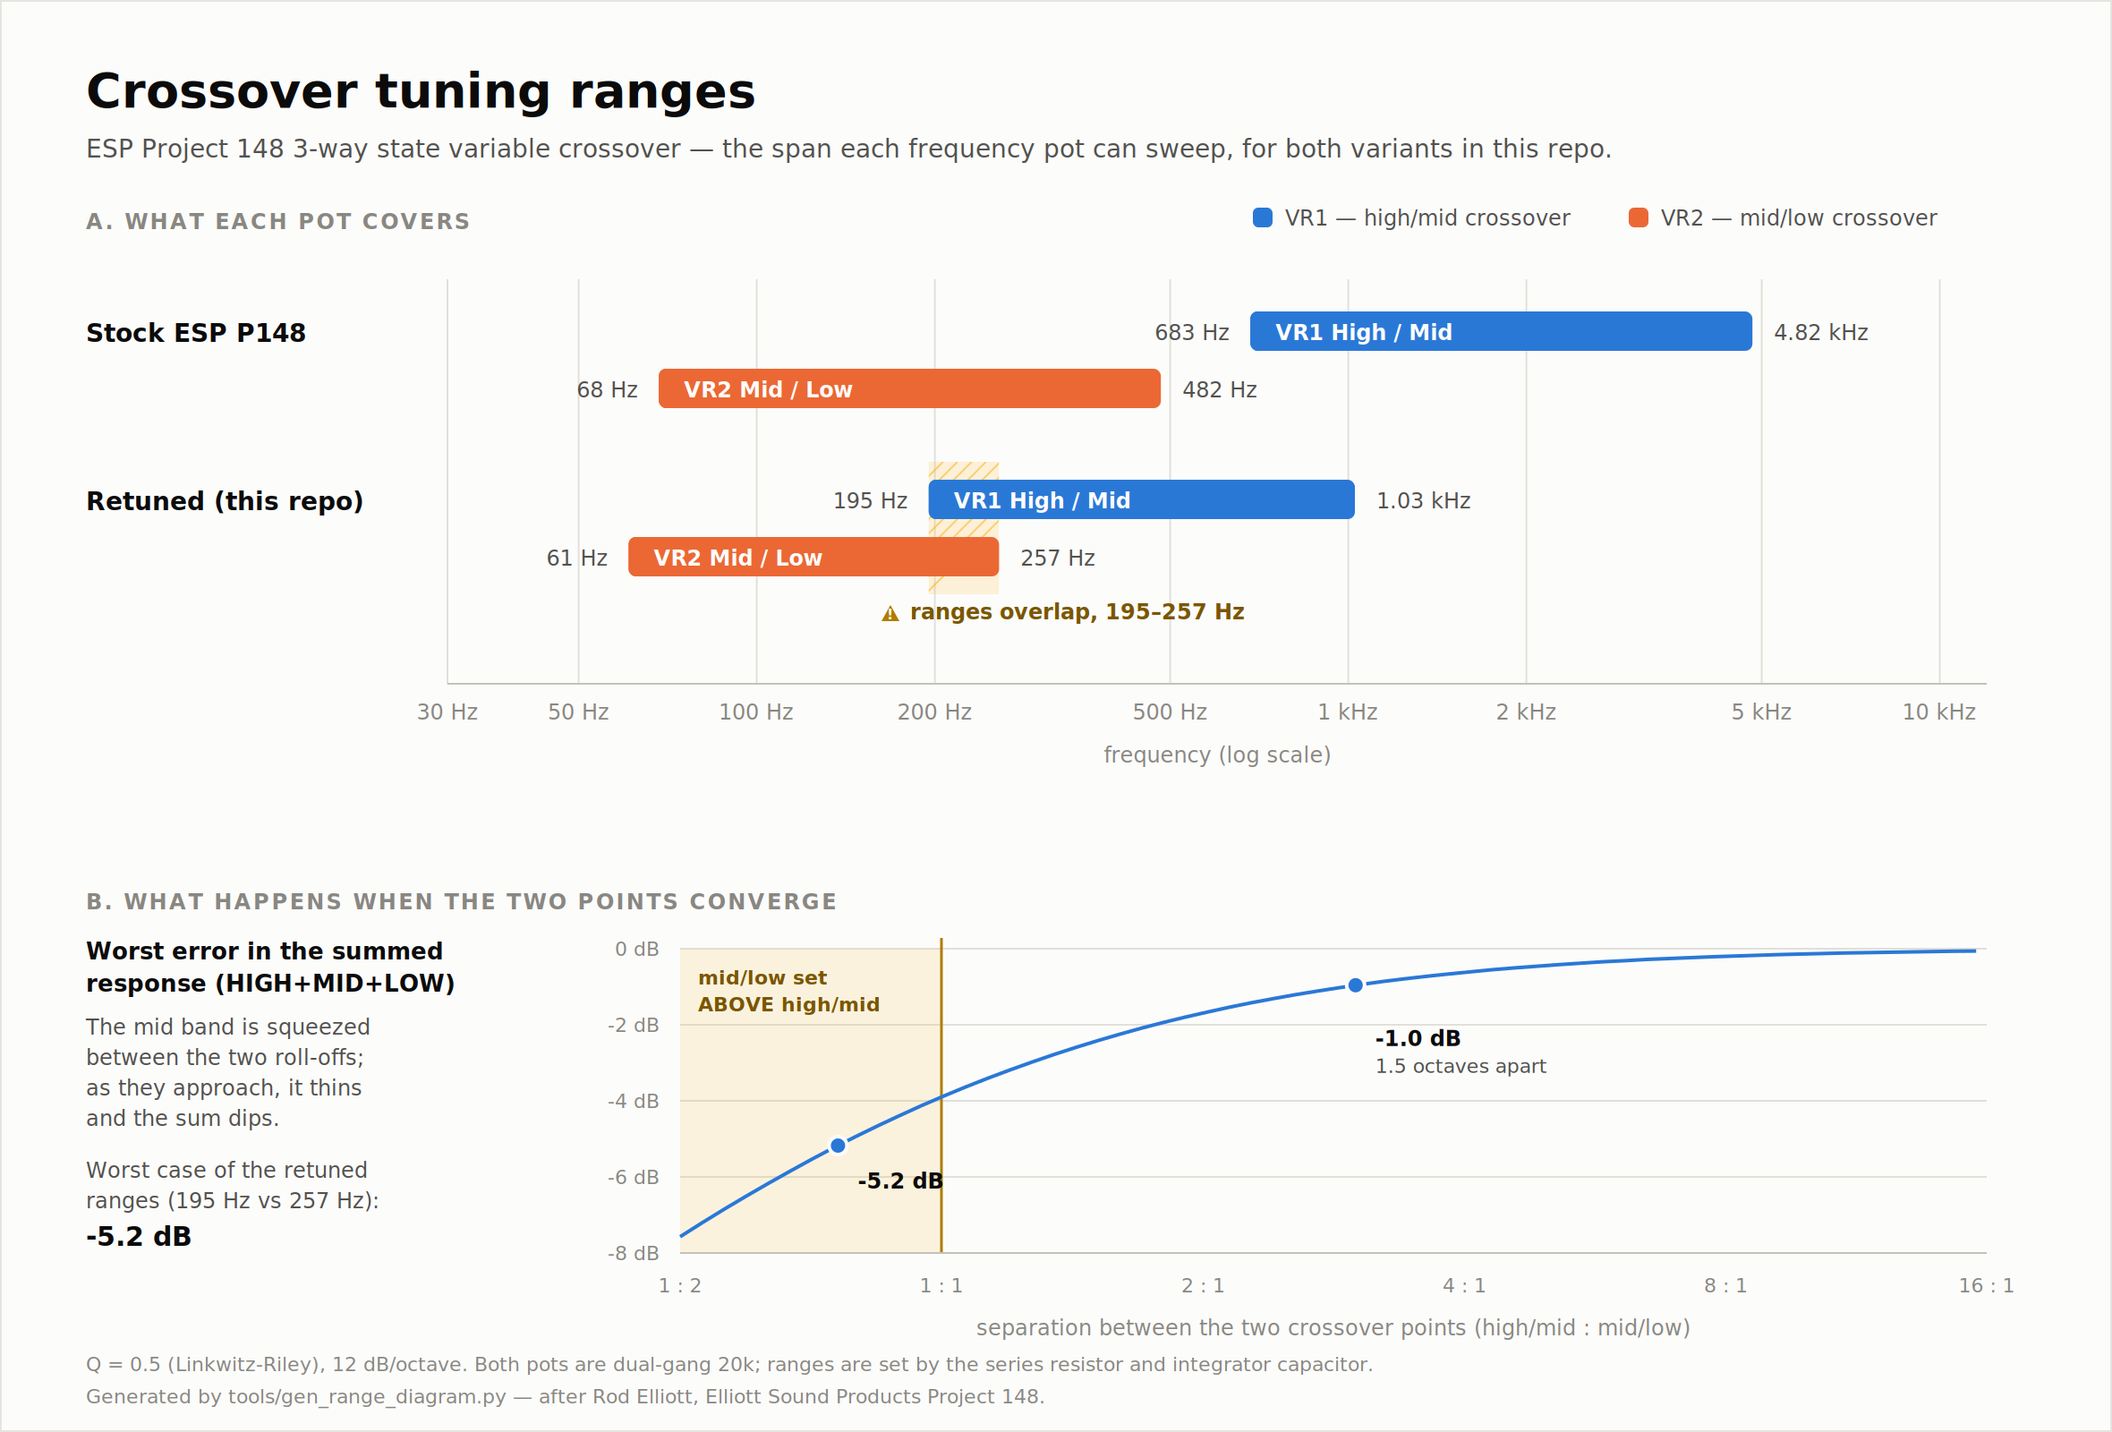
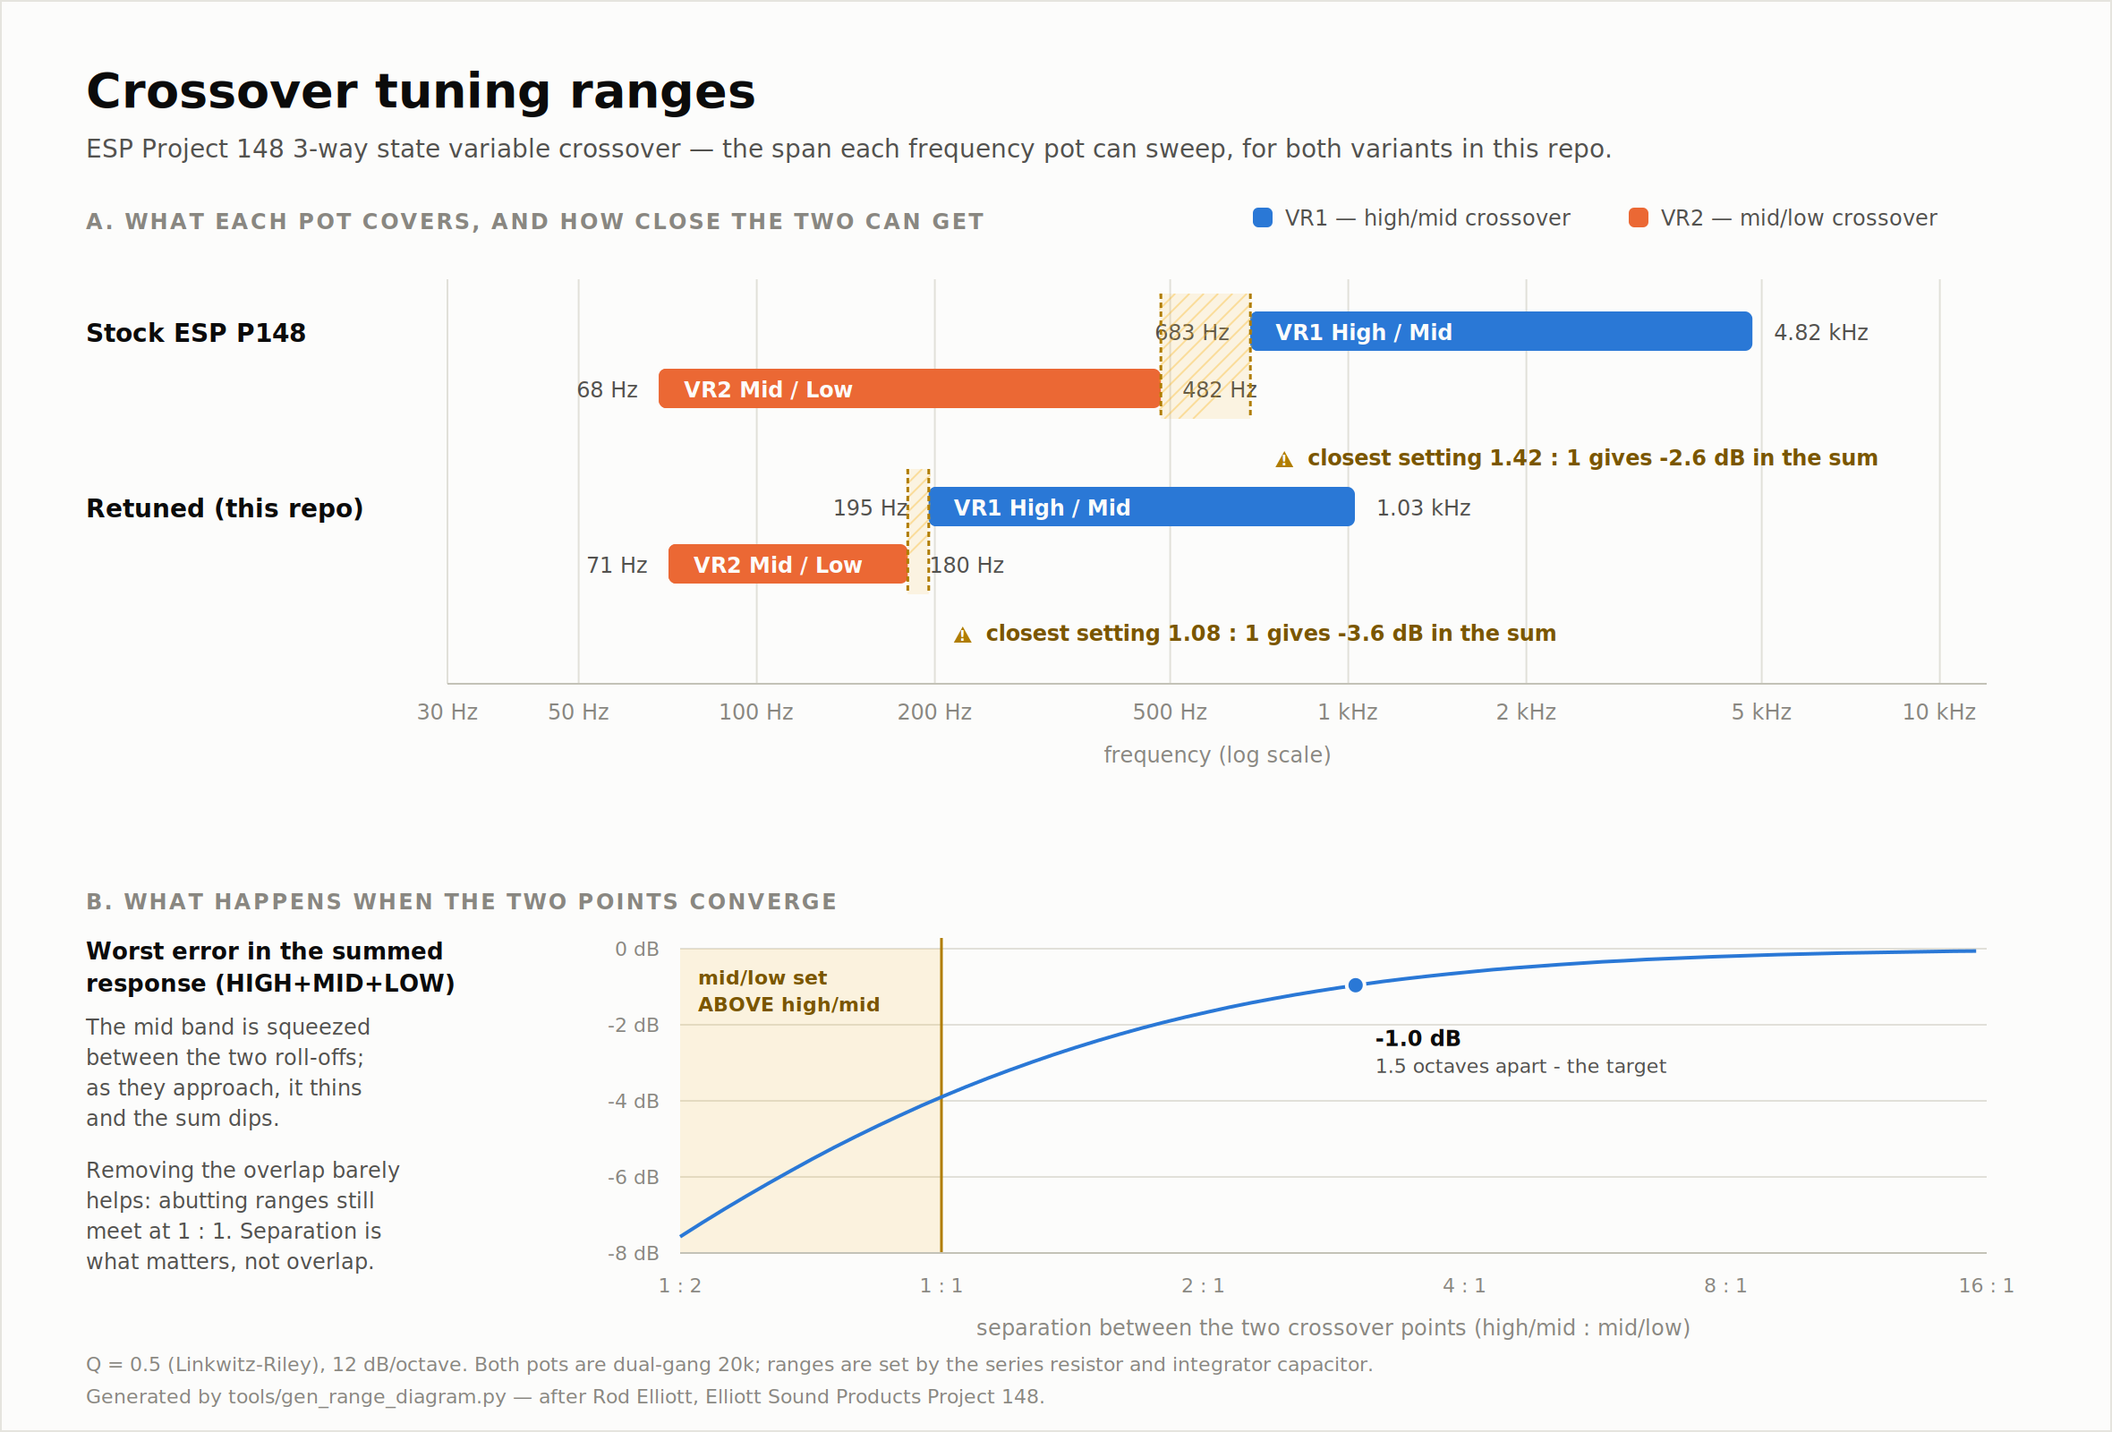
Retune filter 2 to 71-180 Hz; reframe the guidance around separation
Filter 2 becomes R17/R18 = 13k with C3/C4 = 68nF, giving 70.9 - 180.0 Hz, so
the two tuning ranges no longer overlap (filter 1 starts at 195 Hz).  Filter 1
is unchanged at 4.7k / 33nF.

Removing the overlap is worth doing but does not do what it appears to.  Ranges
that merely abut still meet at the boundary, so the worst-case setting only
improves from 0.76:1 (-5.17 dB) to 1.08:1 (-3.57 dB).  The stock ESP values have
the same exposure at 1.42:1 (-2.62 dB) - nothing in this topology enforces
separation, because the two filters are tuned independently.  The docs and the
range diagram now say so directly: the diagram marks each variant's closest
possible setting and the error it produces, rather than only flagging overlap.

Claude-Session: https://claude.ai/code/session_01NEgWi6wEgHQCC2hjcx9DP1

diff --git a/tools/gen_range_diagram.py b/tools/gen_range_diagram.py
@@ -30,9 +30,9 @@ W, H = 1180, 800
 
 VARIANTS = [
     ("Stock  ESP P148", [("VR1", "High / Mid", 683.0, 4820.0, S1),
-                         ("VR2", "Mid / Low", 68.3, 482.0, S2)], None),
+                         ("VR2", "Mid / Low", 68.3, 482.0, S2)]),
     ("Retuned  (this repo)", [("VR1", "High / Mid", 195.3, 1026.0, S1),
-                              ("VR2", "Mid / Low", 60.7, 256.7, S2)], (195.3, 256.7)),
+                              ("VR2", "Mid / Low", 70.9, 180.0, S2)]),
 ]
 
 FMIN, FMAX = 30.0, 12000.0
@@ -62,6 +62,16 @@ def outputs(f, f1, f2):
 
 def db(x):
     return 20 * math.log10(abs(x)) if abs(x) > 1e-12 else -99.0
+
+
+def worst_sum_error_pair(f1, f2):
+    worst = 0.0
+    for i in range(900):
+        f = 10 * 10 ** (3.5 * i / 899)
+        e = db(sum(outputs(f, f1, f2)))
+        if abs(e) > abs(worst):
+            worst = e
+    return worst
 
 
 def worst_sum_error(ratio, f2=200.0):
@@ -102,7 +112,7 @@ text(48, 88, "ESP Project 148 3-way state variable crossover — the span each "
 
 # ---------------- panel A -------------------------------------------------
 AY = 150
-text(48, AY - 22, "A.  WHAT EACH POT COVERS", size=12, fill=MUTED,
+text(48, AY - 22, "A.  WHAT EACH POT COVERS, AND HOW CLOSE THE TWO CAN GET", size=12, fill=MUTED,
      weight="bold", spacing="1.2")
 
 # axis gridlines
@@ -128,21 +138,9 @@ for i, (lab, colour) in enumerate([("VR1 — high/mid crossover", S1),
 
 BAR = 26
 row_y = AY + 24
-for vname, bars, overlap in VARIANTS:
+for vi, (vname, bars) in enumerate(VARIANTS):
     grp_top = row_y - 6
-    if overlap:
-        ox0, ox1 = fx(overlap[0]), fx(overlap[1])
-        oh = 2 * BAR + 22
-        add('<clipPath id="ovl"><rect x="%.1f" y="%.1f" width="%.1f" '
-            'height="%.1f"/></clipPath>' % (ox0, grp_top - 4, ox1 - ox0, oh))
-        add('<g clip-path="url(#ovl)">')
-        add('<rect x="%.1f" y="%.1f" width="%.1f" height="%.1f" fill="%s" '
-            'fill-opacity="0.16"/>' % (ox0, grp_top - 4, ox1 - ox0, oh, WARN))
-        for dx in range(0, int(ox1 - ox0) + 40, 8):     # texture, not colour alone
-            add('<line x1="%.1f" y1="%.1f" x2="%.1f" y2="%.1f" stroke="%s" '
-                'stroke-width="1" stroke-opacity="0.55"/>'
-                % (ox0 + dx, grp_top - 4, ox0 + dx - oh, grp_top - 4 + oh, WARN))
-        add('</g>')
+    f1_min, f2_max = bars[0][2], bars[1][3]
     text(48, row_y + 17, vname, size=14, fill=INK, weight="bold")
     for label, band, f_lo, f_hi, colour in bars:
         x0, x1 = fx(f_lo), fx(f_hi)
@@ -157,17 +155,37 @@ for vname, bars, overlap in VARIANTS:
         text(x0 - 12, row_y + 16, hz(f_lo), size=12, fill=INK2, anchor="end")
         text(x1 + 12, row_y + 16, hz(f_hi), size=12, fill=INK2)
         row_y += BAR + 6
-    if overlap:
-        cx = (fx(overlap[0]) + fx(overlap[1])) / 2
-        ty = grp_top + 2 * BAR + 32
-        add('<path d="M %.1f %.1f L %.1f %.1f L %.1f %.1f Z" fill="%s"/>'
-            % (cx - 46, ty + 1, cx - 36, ty + 1, cx - 41, ty - 8, "#b07d00"))
-        text(cx - 41, ty, "!", size=8, fill=SURFACE, anchor="middle",
-             weight="bold")
-        text(cx - 30, ty, "ranges overlap, %s–%s"
-             % (hz(overlap[0]).split()[0], hz(overlap[1])), size=12,
-             fill="#7a5600", weight="bold")
-    row_y += 30
+
+    # the closest the two crossover points can be set: VR1 min vs VR2 max
+    lo, hi = min(f1_min, f2_max), max(f1_min, f2_max)
+    xa, xb = fx(lo), fx(hi)
+    oh = 2 * BAR + 18
+    add('<clipPath id="ovl%d"><rect x="%.1f" y="%.1f" width="%.1f" '
+        'height="%.1f"/></clipPath>' % (vi, xa - 1, grp_top - 4,
+                                        max(xb - xa, 3) + 2, oh))
+    add('<g clip-path="url(#ovl%d)">' % vi)
+    add('<rect x="%.1f" y="%.1f" width="%.1f" height="%.1f" fill="%s" '
+        'fill-opacity="0.11"/>' % (xa, grp_top - 4, max(xb - xa, 3), oh, WARN))
+    for dx in range(0, int(xb - xa) + 40, 8):
+        add('<line x1="%.1f" y1="%.1f" x2="%.1f" y2="%.1f" stroke="%s" '
+            'stroke-width="1" stroke-opacity="0.35"/>'
+            % (xa + dx, grp_top - 4, xa + dx - oh, grp_top - 4 + oh, WARN))
+    add('</g>')
+    for x in (xa, xb):
+        add('<line x1="%.1f" y1="%.1f" x2="%.1f" y2="%.1f" stroke="%s" '
+            'stroke-width="1.5" stroke-dasharray="3 2"/>'
+            % (x, grp_top - 4, x, grp_top - 4 + oh, "#b07d00"))
+
+    sep = f1_min / f2_max
+    err = worst_sum_error_pair(f1_min, f2_max)
+    ty = grp_top + oh + 22
+    tx = min(xb + 14, PX1 - 360)
+    add('<path d="M %.1f %.1f L %.1f %.1f L %.1f %.1f Z" fill="%s"/>'
+        % (tx, ty + 1, tx + 10, ty + 1, tx + 5, ty - 8, "#b07d00"))
+    text(tx + 5, ty, "!", size=8, fill=SURFACE, anchor="middle", weight="bold")
+    text(tx + 18, ty, "closest setting %.2f : 1  gives  %+.1f dB in the sum"
+         % (sep, err), size=12, fill="#7a5600", weight="bold")
+    row_y += 34
 
 # ---------------- panel B -------------------------------------------------
 BY = 530
@@ -179,9 +197,10 @@ text(48, BY + 48, "The mid band is squeezed", size=12, fill=INK2)
 text(48, BY + 65, "between the two roll-offs;", size=12, fill=INK2)
 text(48, BY + 82, "as they approach, it thins", size=12, fill=INK2)
 text(48, BY + 99, "and the sum dips.", size=12, fill=INK2)
-text(48, BY + 128, "Worst case of the retuned", size=12, fill=INK2)
-text(48, BY + 145, "ranges (195 Hz vs 257 Hz):", size=12, fill=INK2)
-text(48, BY + 166, "-5.2 dB", size=15, fill=INK, weight="bold")
+text(48, BY + 128, "Removing the overlap barely", size=12, fill=INK2)
+text(48, BY + 145, "helps: abutting ranges still", size=12, fill=INK2)
+text(48, BY + 162, "meet at 1 : 1. Separation is", size=12, fill=INK2)
+text(48, BY + 179, "what matters, not overlap.", size=12, fill=INK2)
 
 BX0, BX1 = 380, 1110
 BY0, BY1 = BY, BY + 170
@@ -222,14 +241,13 @@ while r <= RMAX + 1e-9:
 add('<polyline points="%s" fill="none" stroke="%s" stroke-width="2" '
     'stroke-linejoin="round"/>' % (" ".join("%.1f,%.1f" % p for p in pts), S1))
 
-for r, note, dy in [(0.76, "", 24), (3.0, "1.5 octaves apart", 34)]:
+for r, note, dy in [(3.0, "1.5 octaves apart - the target", 34)]:
     e = worst_sum_error(r)
     add('<circle cx="%.1f" cy="%.1f" r="5" fill="%s" stroke="%s" '
         'stroke-width="2"/>' % (bx(r), by(e), S1, SURFACE))
     text(bx(r) + 11, by(e) + dy, "%+.1f dB" % e, size=12, fill=INK,
          weight="bold")
-    if note:
-        text(bx(r) + 11, by(e) + dy + 15, note, size=11.5, fill=INK2)
+    text(bx(r) + 11, by(e) + dy + 15, note, size=11.5, fill=INK2)
 
 for r in [0.5, 1, 2, 4, 8, 16]:
     text(bx(r), BY1 + 22, ("1 : 1" if r == 1 else

diff --git a/tools/gen_schematic.py b/tools/gen_schematic.py
@@ -55,9 +55,9 @@ VARIANTS = [
          rs2="3.3k", c2="100nF", range2="68 Hz - 480 Hz"),
     dict(slug="esp-p148-3way-crossover-retuned-200hz-1khz",
          title="3-Way State Variable Electronic Crossover  -  ESP P148, retuned "
-               "(195 Hz - 1.03 kHz / 61 Hz - 257 Hz)",
+               "(195 Hz - 1.03 kHz / 71 Hz - 180 Hz)",
          rs1="4.7k", c1="33nF", range1="195 Hz - 1.03 kHz",
-         rs2="6.2k", c2="100nF", range2="61 Hz - 257 Hz"),
+         rs2="13k", c2="68nF", range2="71 Hz - 180 Hz"),
 ]
 
 W_CANVAS, H_CANVAS = 2200, 1600

diff --git a/docs/circuit-notes.md b/docs/circuit-notes.md
@@ -112,28 +112,20 @@ With the stock 3.3 k and a 20 k pot the ratio is 7.06 — a very wide sweep. The
 | Filter 1, stock | 3.3 k | 10 nF | 683 Hz … 4.82 kHz | 7.06 |
 | Filter 1, retuned | 4.7 k | 33 nF | 195 Hz … 1.03 kHz | 5.26 |
 | Filter 2, stock | 3.3 k | 100 nF | 68.3 Hz … 482 Hz | 7.06 |
-| Filter 2, retuned | 6.2 k | 100 nF | 60.7 Hz … 257 Hz | 4.23 |
+| Filter 2, retuned | 13 k | 68 nF | 70.9 Hz … 180 Hz | 2.54 |
 
-Six components change in total (R7, R8, C1, C2, R17, R18) and nothing else —
-Q, topology, op-amps and pots are untouched, because the Q network and the
-frequency network are independent.
+Eight components change in total (R7, R8, C1, C2, R17, R18, C3, C4) and nothing
+else — Q, topology, op-amps and pots are untouched, because the Q network and
+the frequency network are independent.
 
 Raising the series resistors also *reduces* loading on the preceding stage, so
 this direction is always safe. The article's warning is about the opposite:
 don't go much below 2.2 k.
 
-Two consequences of narrowing the ranges are worth knowing:
-
-* The two ranges now **overlap** (filter 1 goes down to 195 Hz, filter 2 up to
-  257 Hz), so it is possible to set the Mid/Low point above the High/Mid point.
-  See "Setting the two points too close together" below — the outputs don't
-  swap, but the midrange band collapses.
-* Filter 2's ratio can't be narrowed to exactly 250/68 = 3.68 while keeping
-  100 nF, because with C fixed the series resistor sets the ratio and the
-  absolute frequency together. If you want the tighter range, use
-  R17/R18 = 7.5 k with C3/C4 = 82 nF, which gives 70.6 Hz … 259 Hz — ratio
-  3.67, essentially exact. The 6.2 k / 100 nF choice above was preferred
-  because it reuses the 100 nF caps and still covers the whole target span.
+The retuned ranges don't overlap: filter 2 stops at 180 Hz, filter 1 starts at
+195 Hz. Note that this does **not** stop you setting the two crossover points
+too close together — see the next section, which is the thing that actually
+matters.
 
 Other ranges from the article: 4.7 nF in filter 1 with the stock 3.3 k gives
 roughly 1.45 kHz … 10 kHz; dropping the series resistors to 2.2 k widens the
@@ -170,21 +162,38 @@ summed response (HIGH + MID + LOW) develops a broad suck-out at the same time.
 | 1 : 1 (coincident) | −3.90 dB | −12.0 dB |
 | 1 : 1.3 (inverted, worst of the retuned ranges) | −5.18 dB | −14.6 dB |
 
-Two things to take from this:
+Three things to take from this:
 
 * **The degradation is gradual and starts well before the points cross.** At a
   1.6 : 1 separation — still correctly ordered — the sum is already 2.3 dB down
   and the mid band is 8 dB below the others. There is no cliff edge at 1 : 1;
   crossing over is just further along the same curve.
+* **Making the ranges non-overlapping does not fix this**, which is worth being
+  clear about because it is the obvious thing to try. Two ranges that merely
+  abut still meet at the boundary, so the pots can still be set ~1 : 1 apart:
+
+  | Range layout | Closest possible setting | Sum error there |
+  |---|---|---|
+  | Stock ESP P148 (68–482 / 683–4820, no overlap) | 1.42 : 1 | −2.62 dB |
+  | Overlapping (61–257 / 195–1026) | 0.76 : 1 | −5.17 dB |
+  | Retuned, non-overlapping (71–180 / 195–1026) | 1.08 : 1 | −3.57 dB |
+
+  Removing the overlap buys about 1.6 dB in the worst case. It does not make
+  a bad setting unreachable — and note that **Rod Elliott's own values have the
+  same property**, at 1.42 : 1. Nothing in this topology enforces separation;
+  the two filters are tuned independently and neither knows about the other.
 * **Nothing is damaged or unstable.** No oscillation, no clipping, no latch-up.
   It is simply a filter setting that produces a poor response, and it undoes
   itself the moment you turn VR2 back down.
 
 Practical rule: **keep the two crossover points at least 3 : 1 apart** (about
-1.5 octaves) to stay inside 1 dB, and prefer 4 : 1 or more. For the retuned
-values that means using VR2 in its lower half whenever VR1 is near the bottom
-of its range. That's a normal constraint for any 3-way — a real 3-way speaker
-would not want the two points closer than that regardless of the electronics.
+1.5 octaves) to stay inside 1 dB, and prefer 4 : 1 or more. This is a setting
+discipline, not something the hardware can guarantee. If you did want the
+hardware to enforce it, the only lever is to give up range — with mid/low
+topping out at 180 Hz, high/mid would have to start at 540 Hz for 3 : 1, or
+360 Hz for 2 : 1. That is a real cost, and for a test instrument whose whole
+point is a free sweep it isn't obviously worth paying. Use TP1 and TP2 to set
+the two frequencies accurately, and keep them apart.
 
 ## Test points
 

diff --git a/README.md b/README.md
@@ -15,7 +15,7 @@ range:
 | Variant | High/Mid | Mid/Low | File |
 |---|---|---|---|
 | Stock ESP P148 | 680 Hz – 4.8 kHz | 68 – 480 Hz | `esp-p148-3way-state-variable-crossover.json` |
-| Retuned | 195 Hz – 1.03 kHz | 61 – 257 Hz | `esp-p148-3way-crossover-retuned-200hz-1khz.json` |
+| Retuned | 195 Hz – 1.03 kHz | 71 – 180 Hz | `esp-p148-3way-crossover-retuned-200hz-1khz.json` |
 
 ![Schematic preview](schematic/esp-p148-3way-crossover-retuned-200hz-1khz.png)
 
@@ -97,16 +97,25 @@ exactly with an oscillator. They're optional — the ESP PCB omits them.
 
 ![Crossover tuning ranges](docs/crossover-ranges.png)
 
-Because the two filters are tuned independently, the retuned ranges overlap
-(195–257 Hz) and the mid/low point can be set above the high/mid point. The
-outputs never swap — filter 1 is unaware of filter 2, so HIGH is unaffected.
-What collapses is MID, whose passband *is* the gap between the two corners:
-squeeze that gap and it thins out (−14.6 dB at worst), and the summed response
-develops a broad suck-out (−5.2 dB at worst). The degradation is gradual and
-already measurable at 1.6 : 1 separation, so the useful rule is **keep the two
-points at least 3 : 1 apart** (~1.5 octaves) for under 1 dB, not "keep them in
-order". Nothing is damaged or unstable — turn VR2 back down and it recovers.
-Full table in [`docs/circuit-notes.md`](docs/circuit-notes.md#setting-the-two-points-too-close-together).
+The retuned ranges don't overlap, but that is **not** what keeps the response
+flat — separation is. Because the two filters are tuned independently, nothing
+stops you setting them close together, and ranges that merely abut still meet
+at the boundary:
+
+| Range layout | Closest possible setting | Sum error there |
+|---|---|---|
+| Stock ESP P148 | 1.42 : 1 | −2.62 dB |
+| Retuned | 1.08 : 1 | −3.57 dB |
+
+The outputs never swap — filter 1 is unaware of filter 2, so HIGH is
+unaffected. What collapses is MID, whose passband *is* the gap between the two
+corners: squeeze that gap and it thins out, and the summed response develops a
+broad suck-out. The degradation is gradual and already measurable at 1.6 : 1,
+so the rule is **keep the two points at least 3 : 1 apart** (~1.5 octaves) for
+under 1 dB. That's setting discipline, not something the hardware enforces —
+note the stock ESP values have the same exposure. Nothing is damaged or
+unstable; turn VR2 back down and it recovers. Full detail in
+[`docs/circuit-notes.md`](docs/circuit-notes.md#setting-the-two-points-too-close-together).
 
 ### Frequency range
 
@@ -117,7 +126,7 @@ max/min ratio:
 | Variant | R7, R8 | C1, C2 | High/Mid | R17, R18 | C3, C4 | Mid/Low |
 |---|---|---|---|---|---|---|
 | Stock | 3.3k | 10 nF | 683 Hz – 4.82 kHz | 3.3k | 100 nF | 68.3 – 482 Hz |
-| Retuned | 4.7k | 33 nF | 195 Hz – 1.03 kHz | 6.2k | 100 nF | 60.7 – 257 Hz |
+| Retuned | 4.7k | 33 nF | 195 Hz – 1.03 kHz | 13k | 68 nF | 70.9 – 180 Hz |
 
 Nothing else differs — same Q, same op-amps, same 20 k pots. Larger series
 resistors also load the previous stage *less*, so this direction is safe; the
